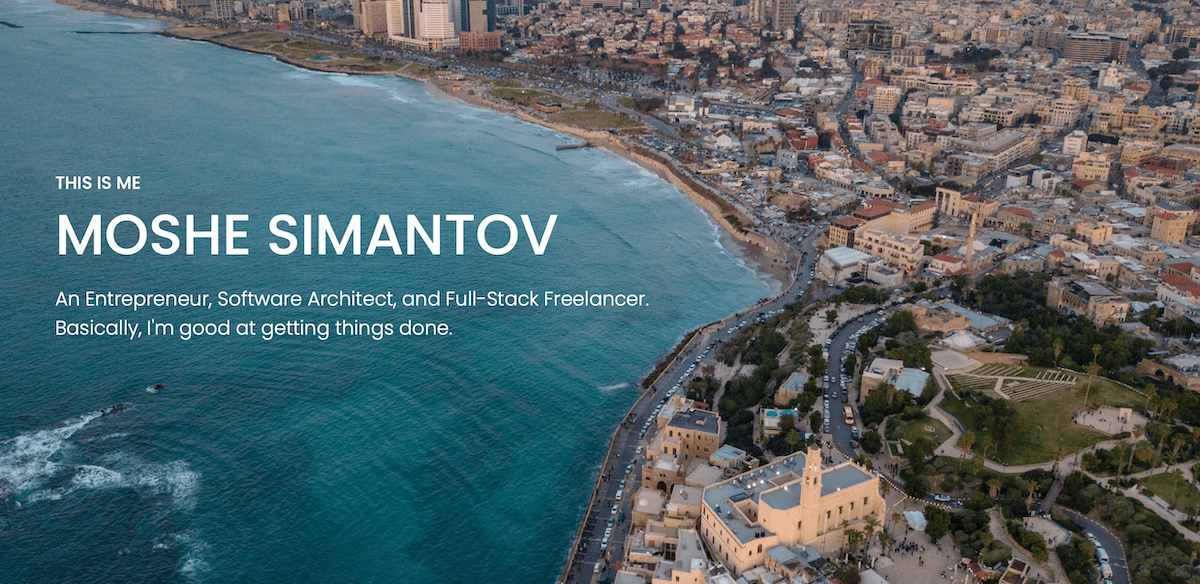
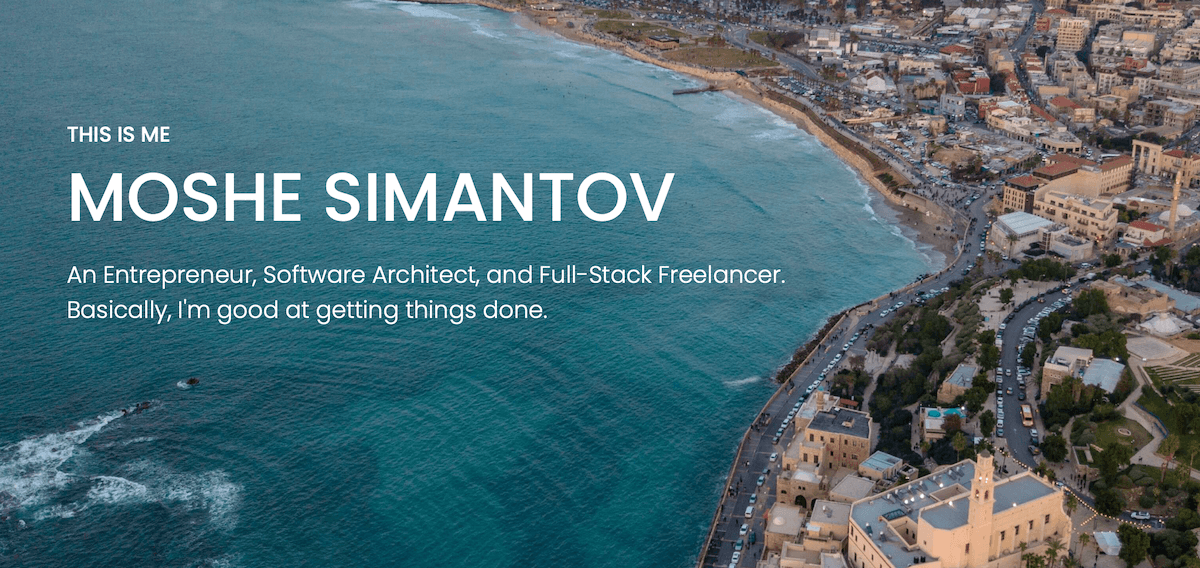
update og cover

diff --git a/index.html b/index.html
@@ -22,7 +22,7 @@
 
   <meta property="og:type" content="website" />
   <meta property="og:url" content="https://moshe.io" />
-  <meta property="og:image" content="https://moshe.io/images/og-cover.png?v=3" />
+  <meta property="og:image" content="https://moshe.io/images/og-cover.png?v=4" />
 
   <link href="https://fonts.googleapis.com/css?family=Poppins:200,300,500,600|Open+Sans:300i"
         rel="stylesheet">
